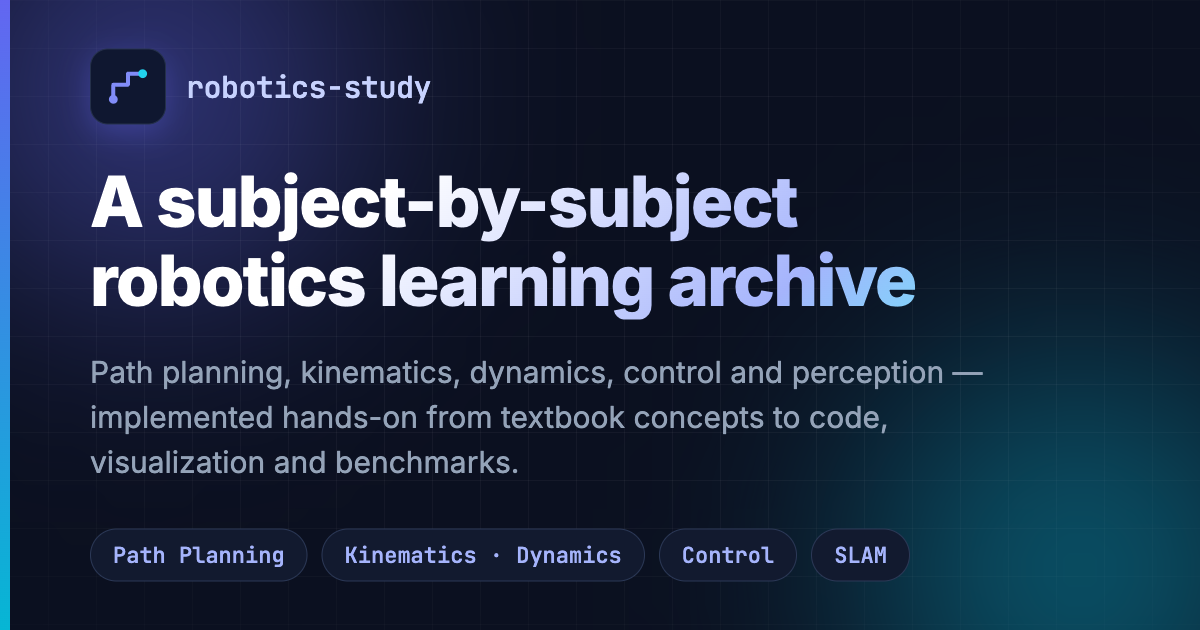
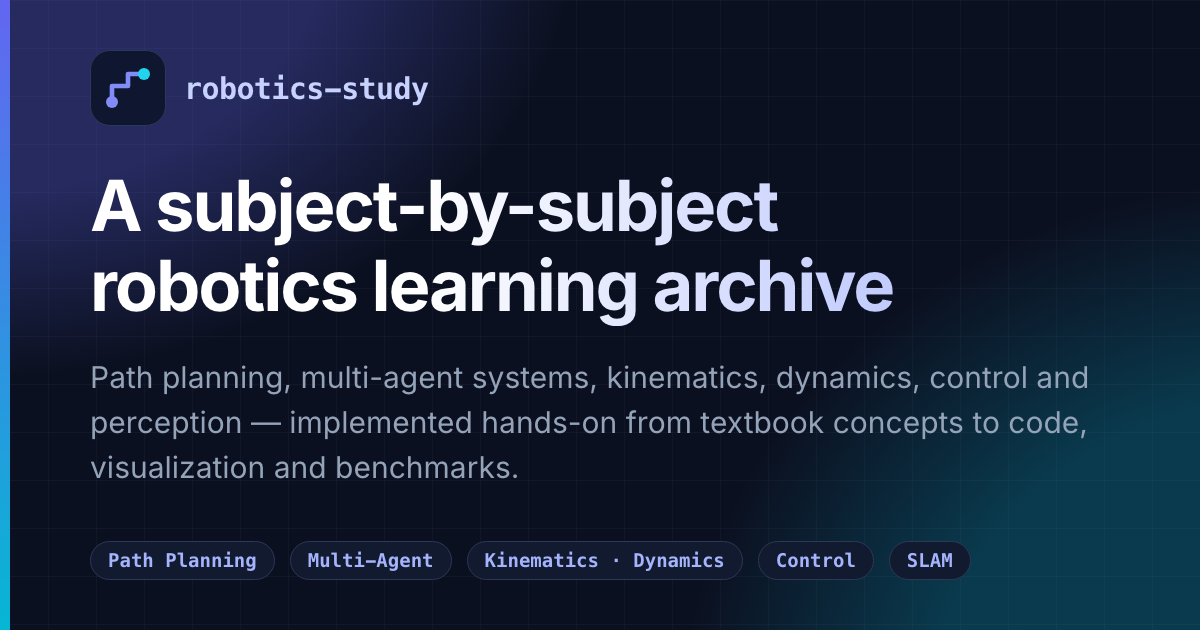
feat: OG 카드를 HTML/CSS 소스로 재생성 — 다개체 칩·문구 반영
기존 OG 이미지는 소스 없이 정적 PNG만 있어 문구 갱신이 어려웠음.
og/에 카드의 HTML/CSS 소스를 두고 헤드리스 Chrome으로 1200×630으로
렌더해 og-image.png / og-image-en.png를 교체.

- 칩에 Multi-Agent 추가(5개), 부제에 다개체 문구 반영
- 칩은 5개를 한 줄에 담기 위해 22px→19px로 축소(README에 기록)
- 영문 h1은 "A subject-by-subject / robotics learning archive"로 줄바꿈 고정

diff --git a/og/card.css b/og/card.css
@@ -1,0 +1,44 @@
+/* og-image.png / og-image-en.png(1200×630)의 소스 스타일.
+   랜딩 페이지(index.html)의 다크 토큰과 동일한 색을 쓰고, 같은 크기로 렌더한다.
+   재생성 방법은 og/README.md 참고. */
+:root{
+  --accent:#818cf8; --accent-2:#22d3ee;
+  --bg:#0b1020; --surface:#121a2f; --border:#24304a;
+  --muted:#94a3b8;
+  --sans:"Inter",system-ui,-apple-system,"Apple SD Gothic Neo","Noto Sans KR",sans-serif;
+  --mono:ui-monospace,"SF Mono","JetBrains Mono",Menlo,Consolas,monospace;
+}
+*{box-sizing:border-box}
+html,body{margin:0;padding:0;background:var(--bg)}
+body{width:1200px;height:630px;overflow:hidden;position:relative;
+  font-family:var(--sans);-webkit-font-smoothing:antialiased}
+
+/* 배경: 48px 그리드 + 좌상단 인디고/우하단 시안 글로우 */
+.grid{position:absolute;inset:0;background-image:
+  linear-gradient(rgba(148,163,184,.05) 1px,transparent 1px),
+  linear-gradient(90deg,rgba(148,163,184,.05) 1px,transparent 1px);
+  background-size:48px 48px}
+.glow{position:absolute;inset:0;background:
+  radial-gradient(620px 460px at -40px -80px,rgba(99,102,241,.3) 60%,transparent),
+  radial-gradient(620px 540px at 1300px 720px,rgba(6,182,212,.25) 60%,transparent)}
+
+/* 좌측 세로 그라디언트 스트립 */
+.strip{position:absolute;left:0;top:0;bottom:0;width:10px;
+  background:linear-gradient(180deg,#6366f1,#06b6d4)}
+
+.wrap{position:absolute;inset:0;padding:0 90px;display:flex;flex-direction:column;justify-content:center}
+
+.brand{display:flex;align-items:center;gap:18px}
+.logo-tile{width:76px;height:76px;border-radius:20px;flex:none;
+  background:#0f1730;border:1px solid #2b3856;display:grid;place-items:center}
+.wm{font-family:var(--mono);font-weight:700;font-size:30px;letter-spacing:-.02em;color:#c7d2fe}
+
+h1{display:inline-block;margin:40px 0 0;font-size:70.5px;line-height:1.13;letter-spacing:-.03em;
+  font-weight:700;background:linear-gradient(90deg,#fff 32%,#a5b4fc);
+  -webkit-background-clip:text;background-clip:text;color:transparent}
+.sub{margin:29px 0 0;color:var(--muted);font-size:30px;line-height:1.5}
+
+/* 칩은 5개 — 22px면 콘텐츠 폭(1020)을 넘기므로 원본보다 살짝 작게 */
+.chips{display:flex;gap:15px;margin-top:51px;font-family:var(--mono)}
+.chips span{white-space:nowrap;padding:9px 17px;border:1px solid #2b3856;border-radius:999px;
+  background:#121a2f;color:#a5b4fc;font-weight:700;font-size:19px;line-height:1}

diff --git a/og/en.html b/og/en.html
@@ -1,0 +1,33 @@
+<!doctype html>
+<html lang="en">
+<head>
+<meta charset="utf-8">
+<title>og-image-en</title>
+<link rel="preconnect" href="https://fonts.googleapis.com">
+<link rel="preconnect" href="https://fonts.gstatic.com" crossorigin>
+<link rel="stylesheet" href="https://fonts.googleapis.com/css2?family=Inter:wght@400;600;700;800&display=swap">
+<link rel="stylesheet" href="card.css">
+</head>
+<body>
+<div class="grid"></div>
+<div class="glow"></div>
+<div class="strip"></div>
+
+<main class="wrap">
+  <div class="brand">
+    <span class="logo-tile">
+      <svg width="48" height="48" viewBox="0 0 24 24" fill="none" aria-hidden="true">
+        <path d="M4 19V11h8V5h8" stroke="#818cf8" stroke-width="2.3" stroke-linecap="round" stroke-linejoin="round"/>
+        <circle cx="4" cy="19" r="3" fill="#818cf8"/><circle cx="20" cy="5" r="3" fill="#22d3ee"/>
+      </svg>
+    </span>
+    <span class="wm">robotics-study</span>
+  </div>
+
+  <h1>A subject-by-subject<br>robotics learning archive</h1>
+  <p class="sub">Path planning, multi-agent systems, kinematics, dynamics, control and perception — implemented hands-on from textbook concepts to code, visualization and benchmarks.</p>
+
+  <div class="chips"><span>Path Planning</span><span>Multi-Agent</span><span>Kinematics · Dynamics</span><span>Control</span><span>SLAM</span></div>
+</main>
+</body>
+</html>

diff --git a/og/ko.html b/og/ko.html
@@ -1,0 +1,33 @@
+<!doctype html>
+<html lang="ko">
+<head>
+<meta charset="utf-8">
+<title>og-image</title>
+<link rel="preconnect" href="https://fonts.googleapis.com">
+<link rel="preconnect" href="https://fonts.gstatic.com" crossorigin>
+<link rel="stylesheet" href="https://fonts.googleapis.com/css2?family=Inter:wght@400;600;700;800&display=swap">
+<link rel="stylesheet" href="card.css">
+</head>
+<body>
+<div class="grid"></div>
+<div class="glow"></div>
+<div class="strip"></div>
+
+<main class="wrap">
+  <div class="brand">
+    <span class="logo-tile">
+      <svg width="48" height="48" viewBox="0 0 24 24" fill="none" aria-hidden="true">
+        <path d="M4 19V11h8V5h8" stroke="#818cf8" stroke-width="2.3" stroke-linecap="round" stroke-linejoin="round"/>
+        <circle cx="4" cy="19" r="3" fill="#818cf8"/><circle cx="20" cy="5" r="3" fill="#22d3ee"/>
+      </svg>
+    </span>
+    <span class="wm">robotics-study</span>
+  </div>
+
+  <h1>로봇공학 주제별 학습 아카이브</h1>
+  <p class="sub">경로 계획·다개체·기구학·동역학·제어·인지까지, 교과서 개념부터 코드·시각화·벤치마크로 직접 구현하며 공부하는 곳</p>
+
+  <div class="chips"><span>Path Planning</span><span>Multi-Agent</span><span>Kinematics · Dynamics</span><span>Control</span><span>SLAM</span></div>
+</main>
+</body>
+</html>

diff --git a/og/README.md b/og/README.md
@@ -1,0 +1,38 @@
+# og/ — 소셜 공유 카드(OG 이미지) 소스
+
+루트의 `og-image.png`(한글) / `og-image-en.png`(영문)은 랜딩 페이지가 공유될 때
+`<meta property="og:image">`로 붙는 1200×630 이미지의 **소스**입니다.
+HTML/CSS로 만들어 두면 문구·칩 수정 후 아래 방법으로 다시 렌더할 수 있습니다.
+
+## 구조
+- `ko.html` / `en.html` — 한글/영문 카드. 레이아웃은 동일하고 텍스트만 다릅니다.
+- `card.css` — 공용 스타일. 색은 랜딩 페이지 다크 토큰(`#0b1020` 배경, `#818cf8`/`#22d3ee` 포인트)과 같습니다.
+
+## 재생성 방법
+Inter 웹폰트를 네트워크로 받아 오므로 **온라인 상태에서** 실행합니다.
+한글은 macOS 시스템 폰트(Apple SD Gothic Neo)를 쓰므로 macOS에서 렌더하는 것을 전제로 합니다.
+
+```sh
+CHROME="/Applications/Google Chrome.app/Contents/MacOS/Google Chrome"
+"$CHROME" --headless=new --disable-gpu --hide-scrollbars \
+  --force-device-scale-factor=1 --window-size=1200,630 \
+  --virtual-time-budget=8000 \
+  --screenshot=../og-image.png "file://$(pwd)/ko.html"
+"$CHROME" --headless=new --disable-gpu --hide-scrollbars \
+  --force-device-scale-factor=1 --window-size=1200,630 \
+  --virtual-time-budget=8000 \
+  --screenshot=../og-image-en.png "file://$(pwd)/en.html"
+```
+
+## 디자인 스펙(기존 PNG에서 픽셀 실측으로 역산)
+- 캔버스 1200×630, 배경 `#0b1020` + 48px 그리드선(`rgba(148,163,184,.05)`),
+  좌측 10px 세로 스트립(`#6366f1 → #06b6d4`)
+- 글로우: 좌상단 `radial-gradient(620px 460px at -40px -80px, rgba(99,102,241,.3) 60%, transparent)`,
+  우하단 `radial-gradient(620px 540px at 1300px 720px, rgba(6,182,212,.25) 60%, transparent)`
+- 로고 타일 76×76(r20, `#0f1730`/`#2b3856`) + 파비콘과 동일한 경로 아이콘 SVG
+- 워드마크: 모노(SF Mono) 볼드 30px, 자간 -.02em, `#c7d2fe`
+- h1: 70.5px 볼드(한글 Apple SD Gothic Neo / 영문 Inter), 자간 -.03em, 줄높이 1.13,
+  그라디언트 텍스트(`linear-gradient(90deg,#fff 32%,#a5b4fc)`)
+- 부제: 30px, 줄높이 1.5, `#94a3b8`
+- 칩: 모노 볼드 19px — 기존 카드의 22px에서 칩이 5개로 늘어 콘텐츠 폭(1020px)에
+  맞추려 축소했습니다. 패딩 9×17px, 갭 15px
